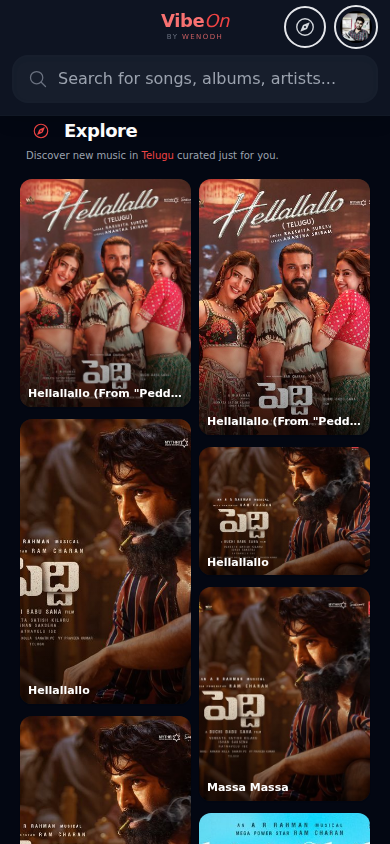
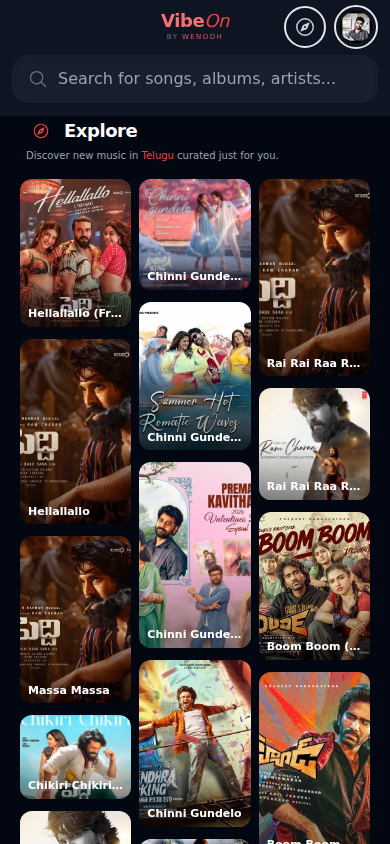
feat: update explore screen to minimum 3-column layout
- Increased mobile density by setting the minimum masonry grid to 3 columns.
- Updated `Explore.tsx` and `ExploreSkeleton.tsx` column configuration.
- Verified visual density across mobile, desktop, and ultra-wide breakpoints.

diff --git a/src/pages/Explore.tsx b/src/pages/Explore.tsx
@@ -81,7 +81,7 @@ const Explore: React.FC = () => {
             {songs.length === 0 && loading ? (
                 <ExploreSkeleton />
             ) : (
-                <div className="columns-2 sm:columns-3 md:columns-4 lg:columns-5 xl:columns-6 2xl:columns-8 gap-2 sm:gap-3 lg:gap-4">
+                <div className="columns-3 md:columns-4 lg:columns-5 xl:columns-6 2xl:columns-8 gap-2 sm:gap-3 lg:gap-4">
                     <AnimatePresence>
                         {songs.map((song, index) => (
                             <ExploreSongCard

diff --git a/src/components/ExploreSkeleton.tsx b/src/components/ExploreSkeleton.tsx
@@ -11,7 +11,7 @@ const ExploreSkeleton: React.FC = () => {
     ];
 
     return (
-        <div className="columns-2 sm:columns-3 md:columns-4 lg:columns-5 xl:columns-6 2xl:columns-8 gap-2 sm:gap-3 lg:gap-4">
+        <div className="columns-3 md:columns-4 lg:columns-5 xl:columns-6 2xl:columns-8 gap-2 sm:gap-3 lg:gap-4">
             {[...Array(20)].map((_, i) => (
                 <div
                     key={i}
